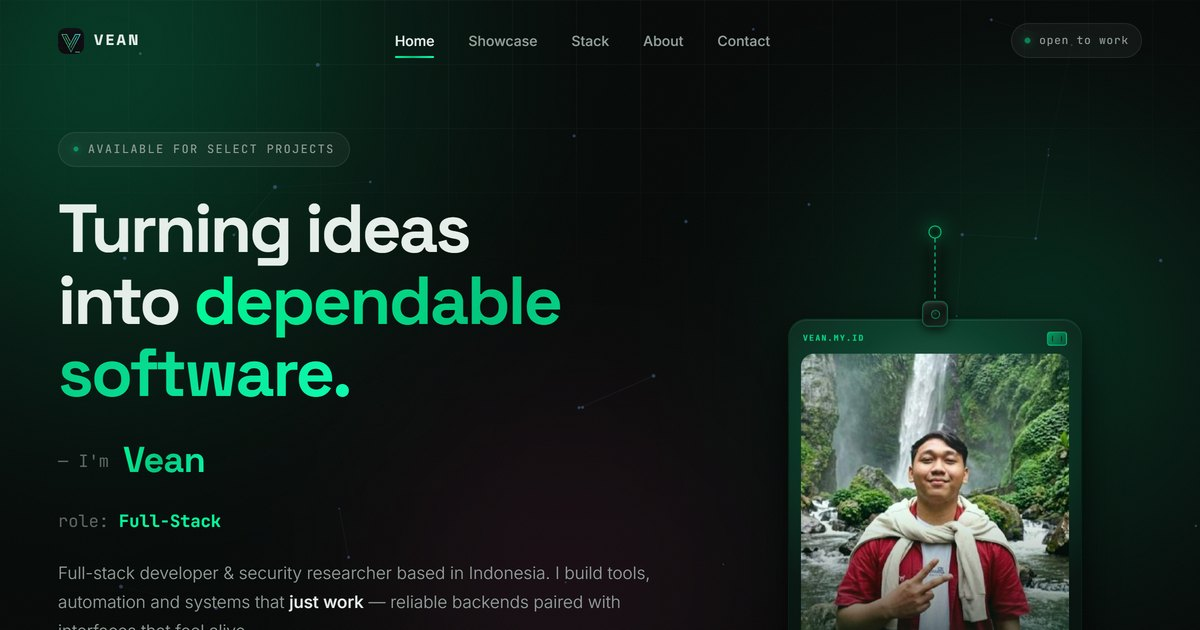
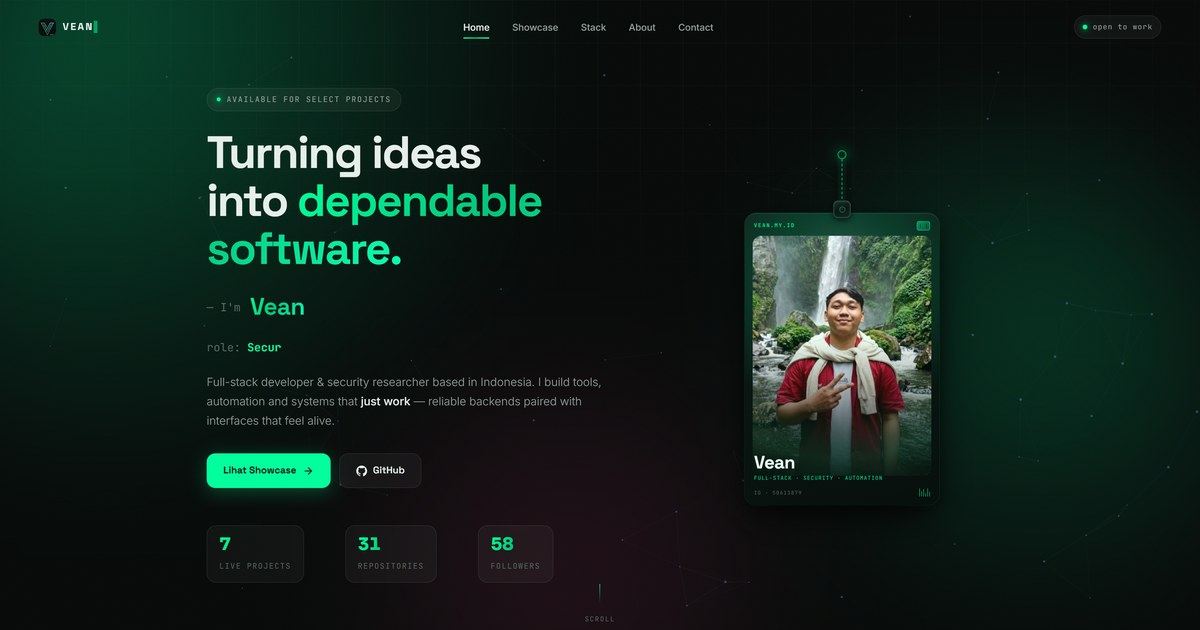
hero: strap fisik 4-lapis (rim+bodi+tenun+teks) ganti garis glow; perbaiki selector badge.js

diff --git a/public/index.html b/public/index.html
@@ -132,7 +132,7 @@
             </div>
           </div>
 
-          <div class="hero-photo hero-anim"><div class="badge-stage" id="badge" role="button" tabindex="0" aria-label="ID card bergantung — tarik talinya"><div class="badge-anchor" aria-hidden="true"></div><svg class="badge-rope" aria-hidden="true"><path class="badge-rope-band"></path><path class="badge-rope-line"></path></svg><div class="badge-body"><div class="badge-clip" aria-hidden="true"><span class="clip-pin"></span></div><div class="id-card"><div class="id-face id-front"><div class="id-top"><span class="id-org">VEAN.MY.ID</span><span class="id-chip" aria-hidden="true"></span></div><div class="id-photo"><img src="me.jpg" alt="Vean" width="300" height="300" loading="eager" draggable="false" /></div><div class="id-name">Vean</div><div class="id-role">full-stack · security · automation</div><div class="id-foot"><span class="id-num">ID · 50613879</span><span class="id-bars" aria-hidden="true"><i></i><i></i><i></i><i></i><i></i><i></i></span></div><div class="id-glare" aria-hidden="true"></div></div></div></div></div></div>
+          <div class="hero-photo hero-anim"><div class="badge-stage" id="badge" role="button" tabindex="0" aria-label="ID card bergantung — tarik talinya"><div class="badge-anchor" aria-hidden="true"></div><svg class="badge-rope" aria-hidden="true"><defs><linearGradient id="strapGrad" x1="0" y1="0" x2="1" y2="0"><stop offset="0" stop-color="#040b07"/><stop offset=".18" stop-color="#14261c"/><stop offset=".42" stop-color="#1f3629"/><stop offset=".66" stop-color="#15271d"/><stop offset=".88" stop-color="#0a1710"/><stop offset="1" stop-color="#040b07"/></linearGradient></defs><path class="badge-rope-edge"></path><path class="badge-rope-fill"></path><path class="badge-rope-weave"></path><path class="badge-rope-centerline" id="ropeCenter"></path><text class="badge-rope-text"><textPath href="#ropeCenter" xlink:href="#ropeCenter" startOffset="6">VEAN ✦ ID CARD</textPath></text></svg><div class="badge-body"><div class="badge-clip" aria-hidden="true"><span class="clip-pin"></span></div><div class="id-card"><div class="id-face id-front"><div class="id-top"><span class="id-org">VEAN.MY.ID</span><span class="id-chip" aria-hidden="true"></span></div><div class="id-photo"><img src="me.jpg" alt="Vean" width="300" height="300" loading="eager" draggable="false" /></div><div class="id-name">Vean</div><div class="id-role">full-stack · security · automation</div><div class="id-foot"><span class="id-num">ID · 50613879</span><span class="id-bars" aria-hidden="true"><i></i><i></i><i></i><i></i><i></i><i></i></span></div><div class="id-glare" aria-hidden="true"></div></div></div></div></div></div>
         </div>
       </div>
       <div class="hero-scroll" aria-hidden="true"><span></span>scroll</div>

diff --git a/public/style.css b/public/style.css
@@ -309,29 +309,61 @@ body.has-cursor, body.has-cursor * { cursor: none; }
   z-index: 4;
 }
 
-/* ---- tali: pita gelap + garis serat hijau, digambar badge.js ---- */
+/* ---- tali: pita fisik (bodi lebar + tepi kain + tenun), digambar badge.js ---- */
 .badge-rope {
   position: absolute; top: 0; left: 0;
   overflow: visible;
   pointer-events: none;
   z-index: 2;
 }
-.badge-rope-band {
+
+/* rim kain: digambar paling lebar di belakang -> cuma tepi tipis yang kelihatan */
+.badge-rope-edge {
   fill: none;
-  stroke: #06120d;
-  stroke-width: 13;
+  stroke: rgba(150, 255, 215, .34);
+  stroke-width: 34;
   stroke-linecap: round;
   stroke-linejoin: round;
-  filter: drop-shadow(0 2px 6px rgba(0, 0, 0, .8));
 }
-.badge-rope-line {
+
+/* bodi pita: gradien silindris -> terasa kain, bukan garis glow */
+.badge-rope-fill {
   fill: none;
-  stroke: rgba(0, 255, 156, .62);
-  stroke-width: 1.4;
+  stroke: url(#strapGrad);
+  stroke-width: 30;
   stroke-linecap: round;
   stroke-linejoin: round;
-  stroke-dasharray: 3 4;         /* serat tenun */
-  filter: drop-shadow(0 0 5px rgba(0, 255, 156, .55));
+  filter: drop-shadow(0 3px 8px rgba(0, 0, 0, .85));
+}
+
+/* tenun: benang silang melintang pita */
+.badge-rope-weave {
+  fill: none;
+  stroke: rgba(0, 255, 156, .16);
+  stroke-width: 26;
+  stroke-linecap: butt;
+  stroke-dasharray: 2 6;
+}
+
+/* garis tengah: acuan textPath, praktis tak terlihat */
+.badge-rope-centerline {
+  fill: none;
+  stroke: rgba(0, 0, 0, .25);
+  stroke-width: 1;
+  stroke-linecap: round;
+}
+
+.badge-rope-text {
+  font-family: var(--font-mono), monospace;
+  font-size: 9px;
+  font-weight: 700;
+  letter-spacing: 1.8px;
+  fill: rgba(0, 255, 156, .58);
+  paint-order: stroke;
+  stroke: rgba(4, 12, 9, .9);
+  stroke-width: 2.4px;
+  stroke-linejoin: round;
+  dominant-baseline: middle;
 }
 
 /* ---- badan: clip + kartu, digerakkan transform oleh badge.js ---- */

diff --git a/public/badge.js b/public/badge.js
@@ -11,9 +11,11 @@
 
   var body = stage.querySelector(".badge-body");
   var card = stage.querySelector(".id-card");
-  var path = stage.querySelector(".badge-rope-line");
-  var band = stage.querySelector(".badge-rope-band");
-  if (!body || !card || !path) return;
+  var fill = stage.querySelector(".badge-rope-fill");
+  var edge = stage.querySelector(".badge-rope-edge");
+  var weave = stage.querySelector(".badge-rope-weave");
+  var center = stage.querySelector(".badge-rope-centerline");
+  if (!body || !card || !fill) return;
 
   var NS = "http://www.w3.org/2000/svg";
 
@@ -44,7 +46,7 @@
     cardH = card.offsetHeight || Math.round(stageW * 1.5);
     stage.style.setProperty("--cord", REST + "px");
     stage.style.height = Math.ceil(REST + cardH + 26) + "px";
-    var svg = path.ownerSVGElement;
+    var svg = fill.ownerSVGElement;
     svg.setAttribute("viewBox", "0 0 " + stageW + " " + (REST + cardH + 26));
     svg.setAttribute("width", String(stageW));
     svg.setAttribute("height", String(REST + cardH + 26));
@@ -63,8 +65,11 @@
     for (var i = 0; i < N; i++) {
       d += " L " + (cx + pts[i].x).toFixed(2) + " " + pts[i].y.toFixed(2);
     }
-    path.setAttribute("d", d);
-    if (band) band.setAttribute("d", d);
+    // satu geometri, empat lapis visual: rim, bodi pita, tenun, garis teks
+    fill.setAttribute("d", d);
+    if (edge) edge.setAttribute("d", d);
+    if (weave) weave.setAttribute("d", d);
+    if (center) center.setAttribute("d", d);
 
     var tail = pts[N - 1];
     var prev = pts[N - 2];
